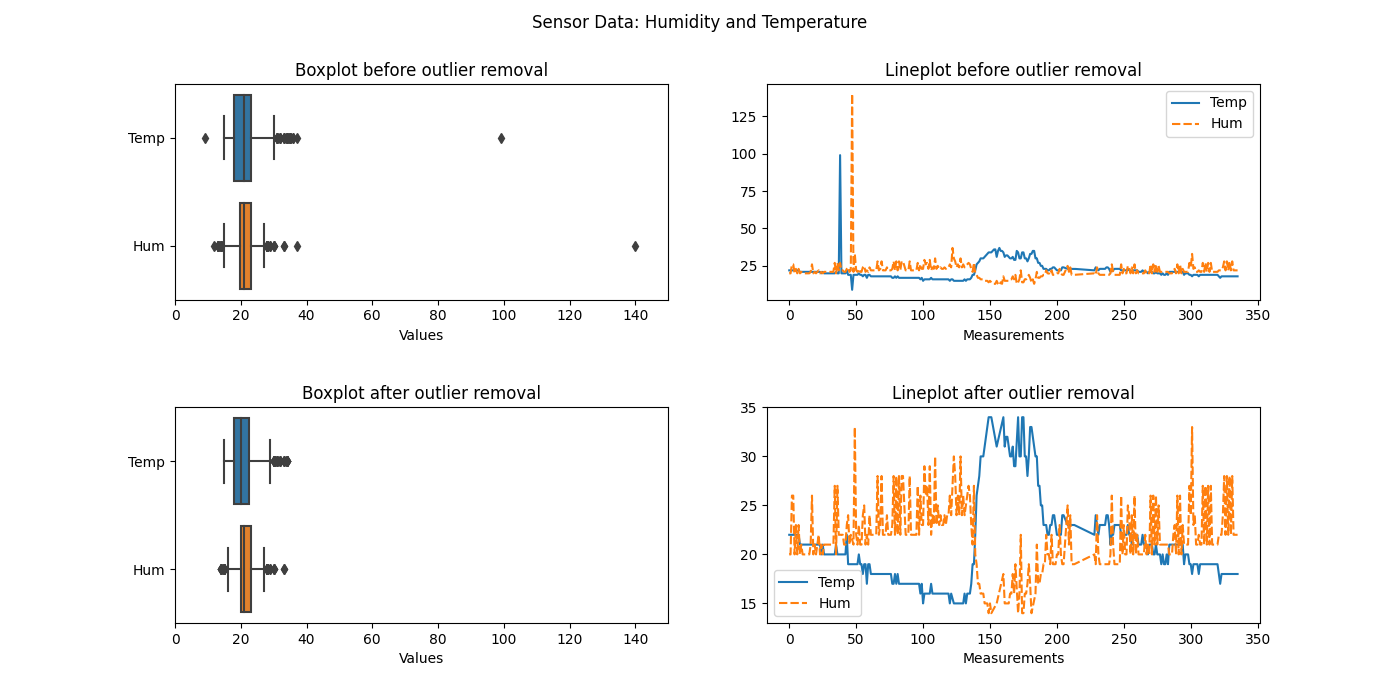
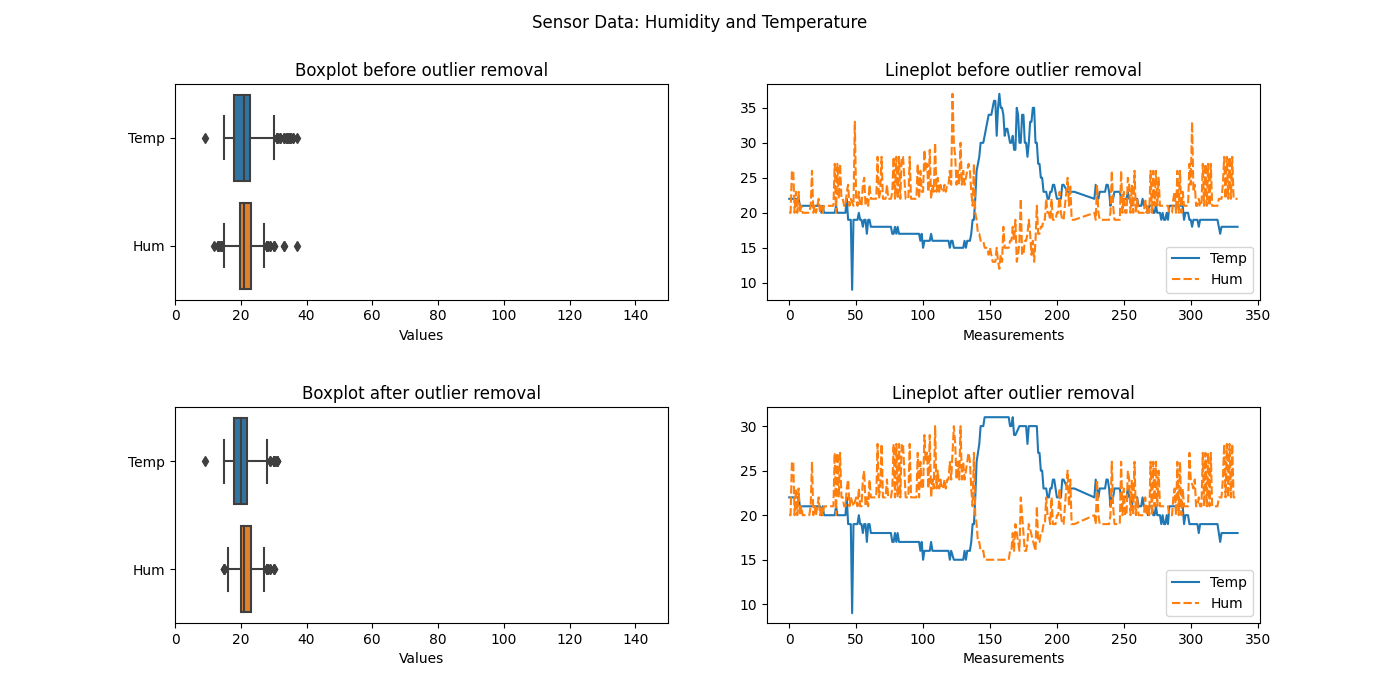
Fixed replace_nat issues

diff --git a/TimeSeriesHandler.py b/TimeSeriesHandler.py
@@ -200,7 +200,7 @@ class FileHandler(object):
 						self.dataframe['Datetime'][nat] = self.dataframe['Datetime'][nat + 1] - mean_timegap
 				elif (first_index >= nat):
 					self.dataframe['Datetime'][nat] = self.dataframe['Datetime'][first_index+1] - mean_timegap
-					if first_index > 1:
+					if first_index >= 1:
 						first_index-=1
 				else: 
 					self.dataframe['Datetime'][nat] = self.dataframe['Datetime'][first_index] - mean_timegap
@@ -231,6 +231,21 @@ class FileHandler(object):
 					nan_index.append(index)
 
 			console.print(f'[{messageColor}]Data columns formated. Empty values replaced with NaN. Indices: {nan_index}')
+		except Exception as e:
+			console.print(f'[{errorColor}]FORMAT_DATA_COLUMNS EXCEPTION - Something strange is going on: {type(e)}')
+	
+	def check_valid_value(self) -> None:
+		try:
+			nan_index = []
+			for index in self.dataframe.index:
+				if (self.dataframe['Temp'][index] < valid_temp[0]) or (self.dataframe['Temp'][index] > valid_temp[1]):
+					self.dataframe['Temp'][index] = np.nan
+					nan_index.append(index)
+				if (self.dataframe['Hum'][index] < valid_hum[0]) or (self.dataframe['Hum'][index] > valid_hum[1]):
+					self.dataframe['Hum'][index] = np.nan
+					nan_index.append(index)
+
+			console.print(f'[{messageColor}]Values checked. Invalid values replaced with NaN. Indices: {nan_index}')
 		except Exception as e:
 			console.print(f'[{errorColor}]FORMAT_DATA_COLUMNS EXCEPTION - Something strange is going on: {type(e)}')
 	
@@ -344,6 +359,7 @@ try:
 	file.check_valid_date()
 	file.replace_nat()
 	file.format_data_columns()
+	file.check_valid_value()
 	file.interpolate_nan()
 	file.remove_outliers()
 	file.plot_data()
